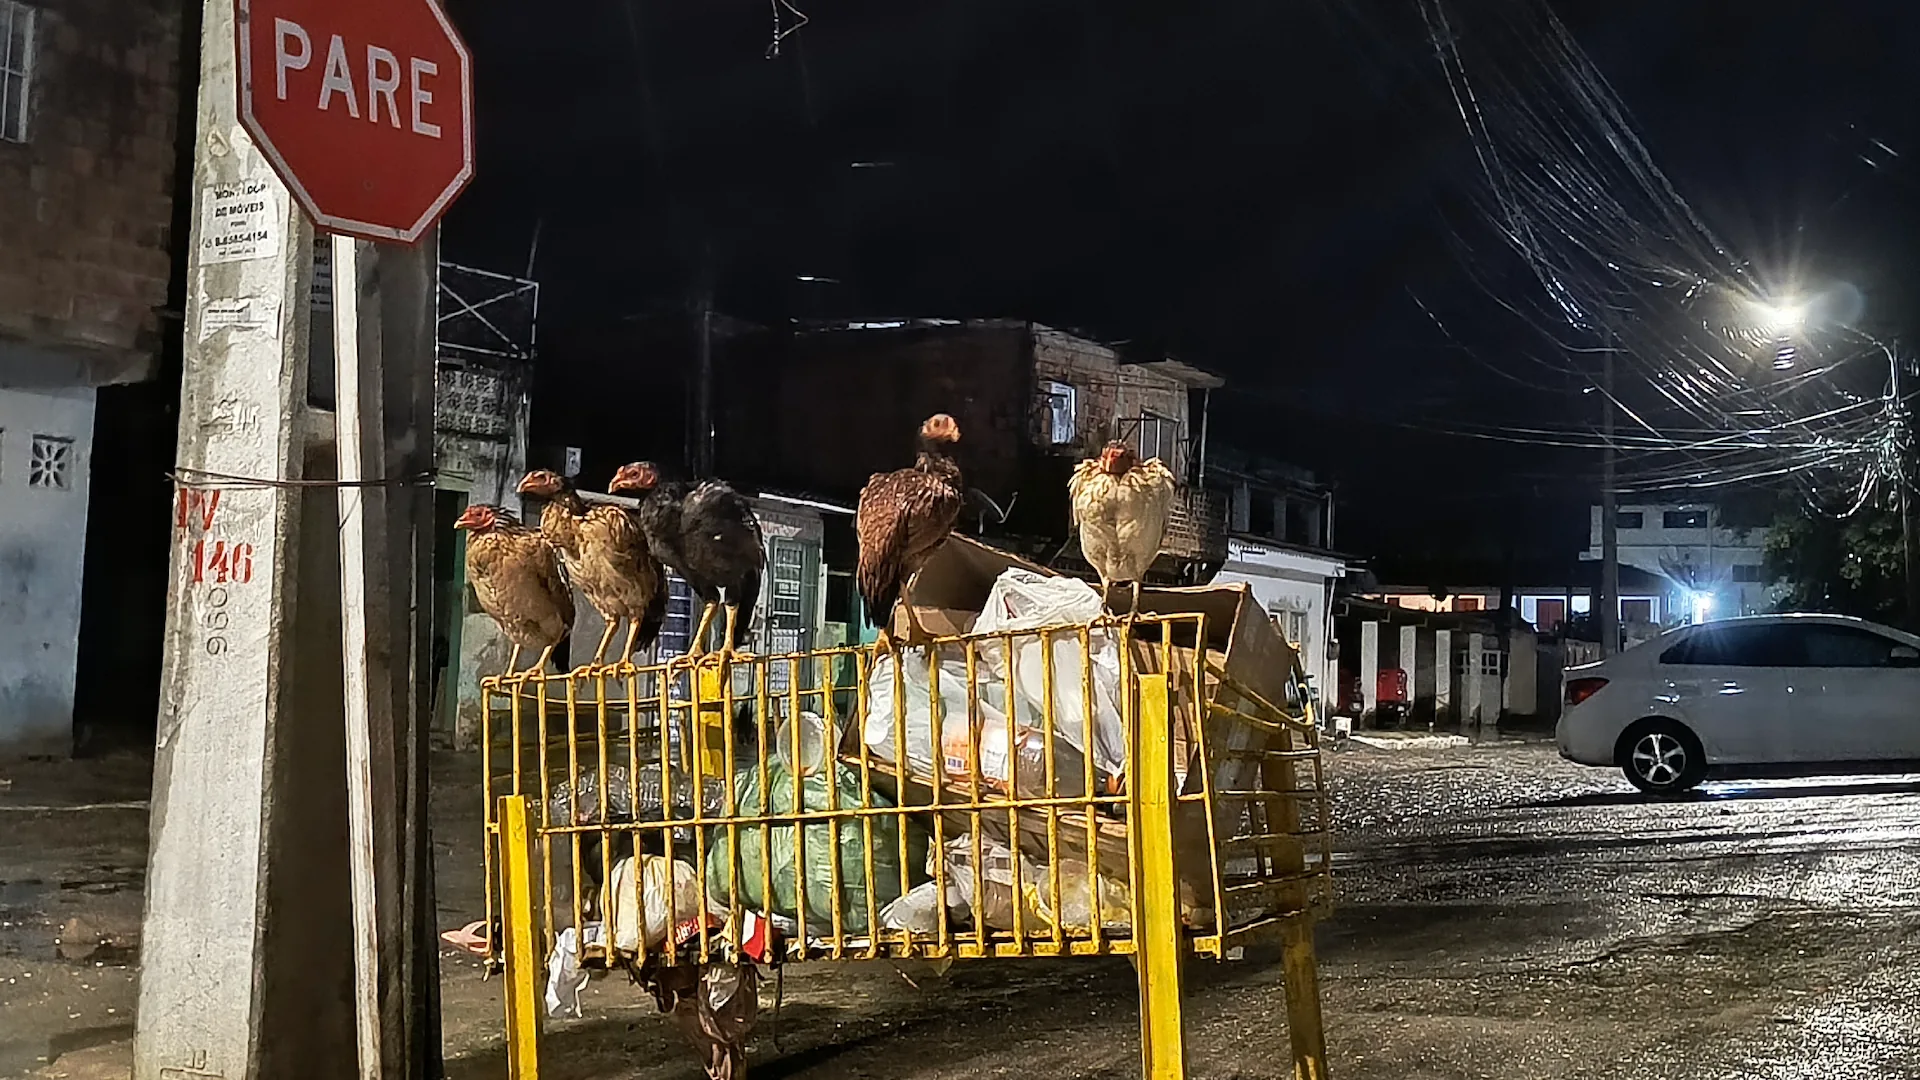
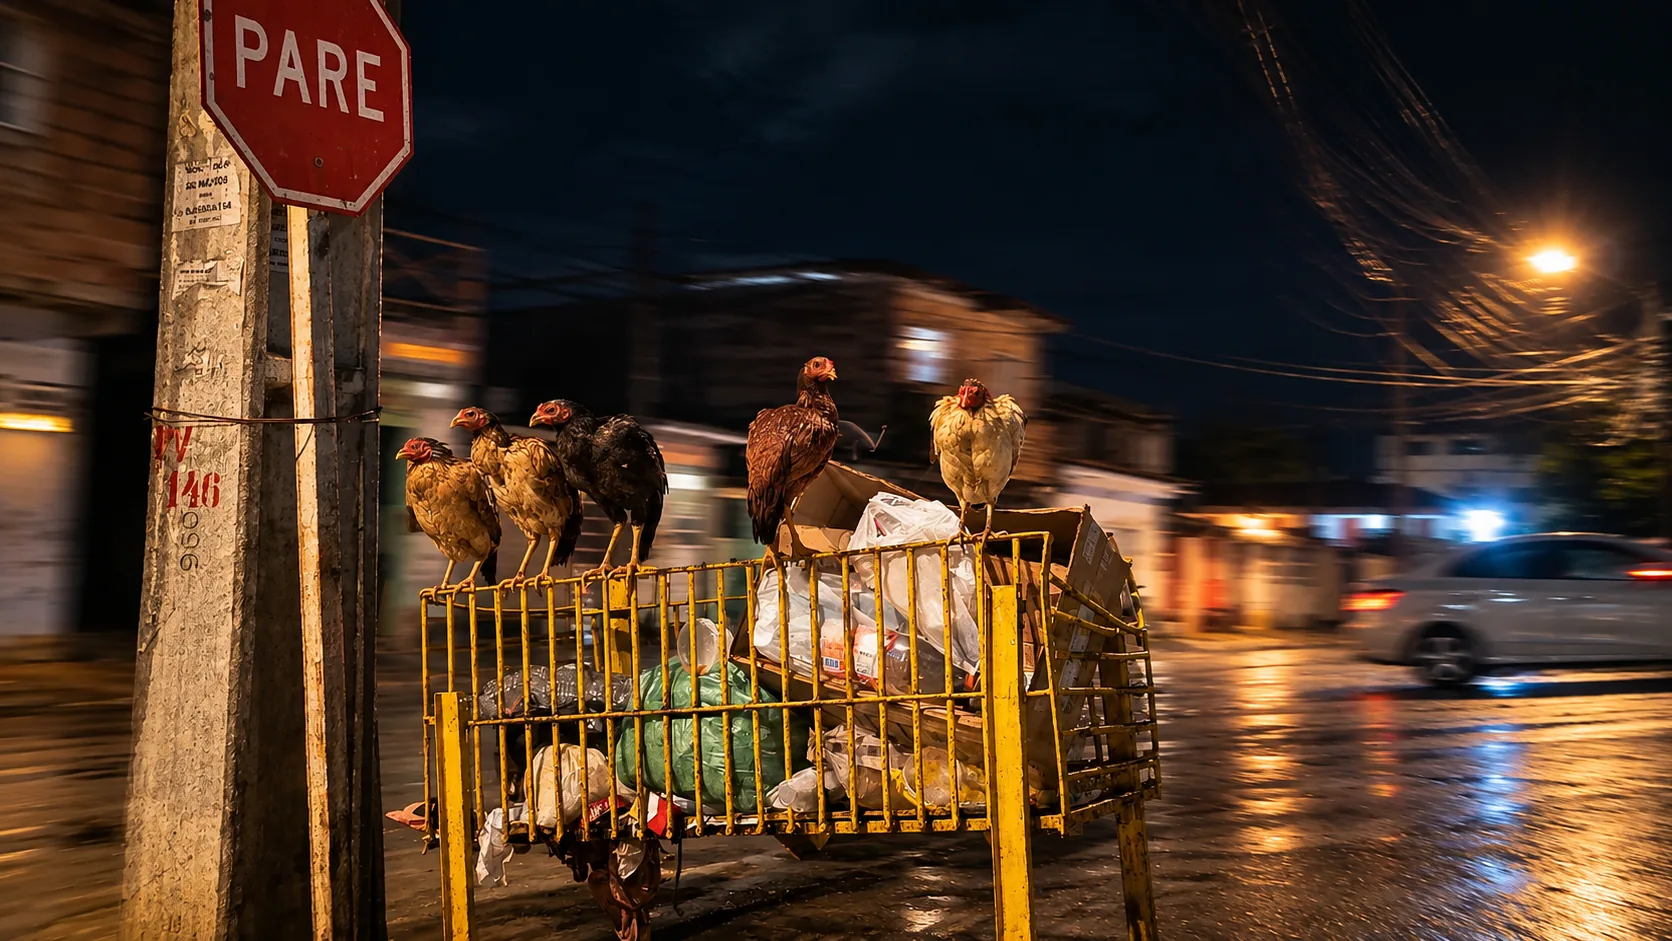
Hero: restaura trasnochadas, suma ruta-tarde-rio y limpia fotos descartadas

diff --git a/src/sections/Hero/Hero.jsx b/src/sections/Hero/Hero.jsx
@@ -59,6 +59,7 @@ const SLOTS = [
       ['/assets/img/hero/porto-tarde-acai.webp'],
       ['/assets/img/hero/rio-santa-cruz-tarde.webp'],
       ['/assets/img/hero/floripa-tarde-morro2.webp'],
+      ['/assets/img/hero/ruta-tarde-rio.webp'],
       ['/assets/img/hero/pernambuco-tarde-campos2.webp'],
       ['/assets/img/hero/maceio-tarde-orla.webp'],
       ['/assets/img/hero/pipa-tarde-restaurantes.webp'],
